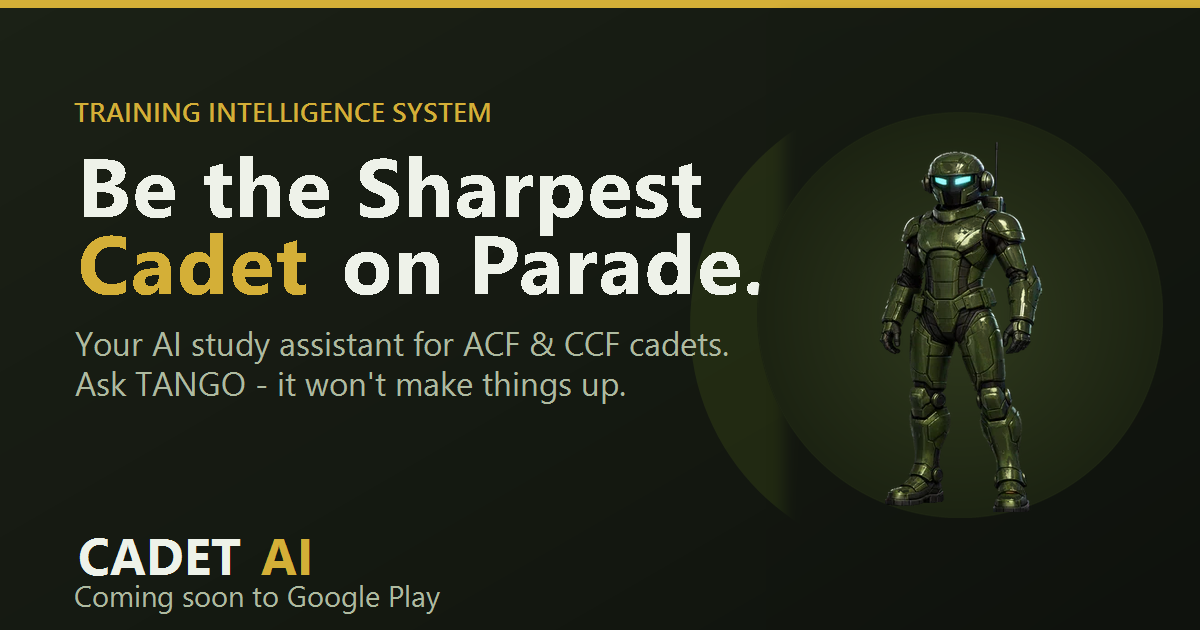
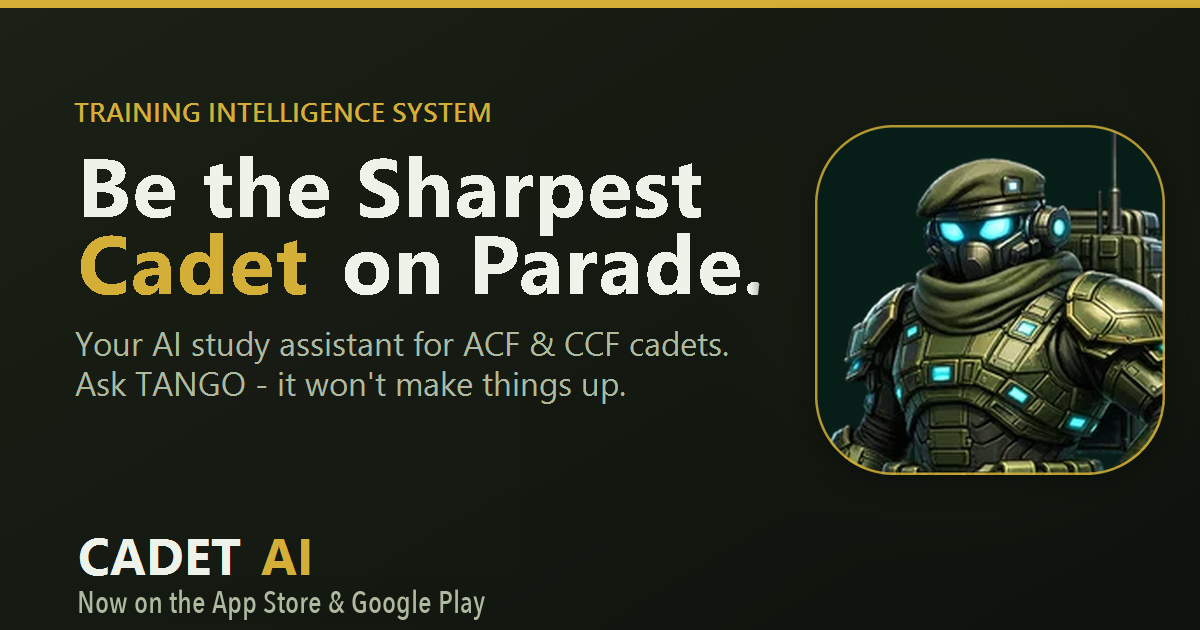
Square and 4:3 cards, because the wide one dies in a square crop
og-card-2.png is composed for 1.91:1 and reads perfectly there — Facebook,
LinkedIn, iMessage, X large card. Centre-cropped to 1:1, which is what Google
mobile search thumbnails and several chat surfaces do, it falls apart: the
headline loses its first word ("e Sharpest"), "Cadet" is reduced to "t", the
app icon is sliced down the middle, the wordmark reads "AI" and the strapline
reads "ore & Google Play". Verified by simulating the crops rather than
assuming.

Cropping cannot fix that, because the layout puts text on the left and the icon
on the right and a square crop keeps neither whole. So og-square.png (1:1) and
og-4x3.png (4:3) are composed for their own ratio and lead with the App Store
icon — the one element still legible when a thumbnail is 72px wide. Checked at
120px and 72px side by side against the cropped wide card.

Wiring:
  og:image / twitter:image   unchanged, still the wide card. Social surfaces
                             render it at ~1.91:1 where it is already correct,
                             and a second og:image risks a platform choosing
                             the square for a feed slot that wants wide.
  schema.org "image"         now an array of all three ratios across 29 fields
                             in 18 files. This is Google's documented way to
                             let it pick per surface, and it is the lever that
                             actually governs search thumbnails.
[…]

Changed region(s): [[0.6783, 0.181, 0.9867, 0.8143], [0.0617, 0.9349, 0.4008, 0.9952]]

diff --git a/features.html b/features.html
@@ -44,7 +44,11 @@
           "https://x.com/CadetAIUK"
         ],
         "logo": "https://cadetai.co.uk/assets/app-icon.png",
-        "image": "https://cadetai.co.uk/assets/og-card-2.png",
+        "image": [
+          "https://cadetai.co.uk/assets/og-card-2.png",
+          "https://cadetai.co.uk/assets/og-4x3.png",
+          "https://cadetai.co.uk/assets/og-square.png"
+        ],
         "email": "support@cadetai.co.uk",
         "description": "Independent study-aid app for UK Army Cadet Force (ACF) and Combined Cadet Force (CCF) cadets aged 13 and over. Not an official or endorsed Cadet Forces product.",
         "contactPoint": {
@@ -69,7 +73,11 @@
         "operatingSystem": "Android",
         "applicationCategory": "EducationalApplication",
         "url": "https://cadetai.co.uk/",
-        "image": "https://cadetai.co.uk/assets/og-card-2.png",
+        "image": [
+          "https://cadetai.co.uk/assets/og-card-2.png",
+          "https://cadetai.co.uk/assets/og-4x3.png",
+          "https://cadetai.co.uk/assets/og-square.png"
+        ],
         "inLanguage": "en-GB",
         "description": "AI study-aid app for UK ACF and CCF cadets. TANGO, an AI study assistant grounded in cadet training that won't make things up, plus quizzes across 13 subjects, military ranks, 229 badges and 35 awards.",
         "publisher": { "@id": "https://cadetai.co.uk/#org" },

diff --git a/index.html b/index.html
@@ -46,7 +46,11 @@
           "https://x.com/CadetAIUK"
         ],
         "logo": "https://cadetai.co.uk/assets/app-icon.png",
-        "image": "https://cadetai.co.uk/assets/og-card-2.png",
+        "image": [
+          "https://cadetai.co.uk/assets/og-card-2.png",
+          "https://cadetai.co.uk/assets/og-4x3.png",
+          "https://cadetai.co.uk/assets/og-square.png"
+        ],
         "email": "support@cadetai.co.uk",
         "description": "Independent study-aid app for UK Army Cadet Force (ACF) and Combined Cadet Force (CCF) cadets aged 13 and over. Not an official or endorsed Cadet Forces product.",
         "contactPoint": {
@@ -71,7 +75,11 @@
         "operatingSystem": "Android",
         "applicationCategory": "EducationalApplication",
         "url": "https://cadetai.co.uk/",
-        "image": "https://cadetai.co.uk/assets/og-card-2.png",
+        "image": [
+          "https://cadetai.co.uk/assets/og-card-2.png",
+          "https://cadetai.co.uk/assets/og-4x3.png",
+          "https://cadetai.co.uk/assets/og-square.png"
+        ],
         "inLanguage": "en-GB",
         "description": "AI study-aid app for UK ACF and CCF cadets. TANGO, an AI study assistant grounded in cadet training that won't make things up, plus quizzes across 13 subjects, military ranks, 229 badges and 35 awards.",
         "publisher": { "@id": "https://cadetai.co.uk/#org" },

diff --git a/guides/map-reading-grid-references.html b/guides/map-reading-grid-references.html
@@ -44,7 +44,11 @@
           "https://x.com/CadetAIUK"
         ],
         "logo": "https://cadetai.co.uk/assets/app-icon.png",
-        "image": "https://cadetai.co.uk/assets/og-card-2.png",
+        "image": [
+          "https://cadetai.co.uk/assets/og-card-2.png",
+          "https://cadetai.co.uk/assets/og-4x3.png",
+          "https://cadetai.co.uk/assets/og-square.png"
+        ],
         "email": "support@cadetai.co.uk"
       },
       {
@@ -60,7 +64,11 @@
         "@id": "https://cadetai.co.uk/guides/map-reading-grid-references.html#article",
         "headline": "Map Reading for Cadets: Grid References Explained",
         "description": "Eastings, northings, four-figure and six-figure grid references - explained simply, with the common mistakes.",
-        "image": "https://cadetai.co.uk/assets/og-card-2.png",
+        "image": [
+          "https://cadetai.co.uk/assets/og-card-2.png",
+          "https://cadetai.co.uk/assets/og-4x3.png",
+          "https://cadetai.co.uk/assets/og-square.png"
+        ],
         "inLanguage": "en-GB",
         "datePublished": "2026-09-08",
         "dateModified": "2026-09-08",

diff --git a/guides/how-to-revise-for-cadet-assessments.html b/guides/how-to-revise-for-cadet-assessments.html
@@ -44,7 +44,11 @@
           "https://x.com/CadetAIUK"
         ],
         "logo": "https://cadetai.co.uk/assets/app-icon.png",
-        "image": "https://cadetai.co.uk/assets/og-card-2.png",
+        "image": [
+          "https://cadetai.co.uk/assets/og-card-2.png",
+          "https://cadetai.co.uk/assets/og-4x3.png",
+          "https://cadetai.co.uk/assets/og-square.png"
+        ],
         "email": "support@cadetai.co.uk"
       },
       {
@@ -60,7 +64,11 @@
         "@id": "https://cadetai.co.uk/guides/how-to-revise-for-cadet-assessments.html#article",
         "headline": "How to Revise for Your Cadet Assessments",
         "description": "Practical study tips for ACF and CCF cadets using active recall, spaced practice and self-quizzing.",
-        "image": "https://cadetai.co.uk/assets/og-card-2.png",
+        "image": [
+          "https://cadetai.co.uk/assets/og-card-2.png",
+          "https://cadetai.co.uk/assets/og-4x3.png",
+          "https://cadetai.co.uk/assets/og-square.png"
+        ],
         "inLanguage": "en-GB",
         "datePublished": "2026-06-30",
         "dateModified": "2026-06-30",

diff --git a/guides/cadet-drill-commands-explained.html b/guides/cadet-drill-commands-explained.html
@@ -44,7 +44,11 @@
           "https://x.com/CadetAIUK"
         ],
         "logo": "https://cadetai.co.uk/assets/app-icon.png",
-        "image": "https://cadetai.co.uk/assets/og-card-2.png",
+        "image": [
+          "https://cadetai.co.uk/assets/og-card-2.png",
+          "https://cadetai.co.uk/assets/og-4x3.png",
+          "https://cadetai.co.uk/assets/og-square.png"
+        ],
         "email": "support@cadetai.co.uk"
       },
       {
@@ -60,7 +64,11 @@
         "@id": "https://cadetai.co.uk/guides/cadet-drill-commands-explained.html#article",
         "headline": "Cadet Drill Commands Explained",
         "description": "Cautionary and executive commands, the common static and marching orders, and how to actually remember them.",
-        "image": "https://cadetai.co.uk/assets/og-card-2.png",
+        "image": [
+          "https://cadetai.co.uk/assets/og-card-2.png",
+          "https://cadetai.co.uk/assets/og-4x3.png",
+          "https://cadetai.co.uk/assets/og-square.png"
+        ],
         "inLanguage": "en-GB",
         "datePublished": "2026-09-08",
         "dateModified": "2026-09-08",

diff --git a/guides/how-to-join-the-army-cadets.html b/guides/how-to-join-the-army-cadets.html
@@ -44,7 +44,11 @@
           "https://x.com/CadetAIUK"
         ],
         "logo": "https://cadetai.co.uk/assets/app-icon.png",
-        "image": "https://cadetai.co.uk/assets/og-card-2.png",
+        "image": [
+          "https://cadetai.co.uk/assets/og-card-2.png",
+          "https://cadetai.co.uk/assets/og-4x3.png",
+          "https://cadetai.co.uk/assets/og-square.png"
+        ],
         "email": "support@cadetai.co.uk"
       },
       {
@@ -60,7 +64,11 @@
         "@id": "https://cadetai.co.uk/guides/how-to-join-the-army-cadets.html#article",
         "headline": "How to Join the Army Cadets",
         "description": "Finding a detachment, your first parade night, costs and kit — a step-by-step guide for cadets and parents.",
-        "image": "https://cadetai.co.uk/assets/og-card-2.png",
+        "image": [
+          "https://cadetai.co.uk/assets/og-card-2.png",
+          "https://cadetai.co.uk/assets/og-4x3.png",
+          "https://cadetai.co.uk/assets/og-square.png"
+        ],
         "inLanguage": "en-GB",
         "datePublished": "2026-09-08",
         "dateModified": "2026-09-08",

diff --git a/guides/acf-vs-ccf.html b/guides/acf-vs-ccf.html
@@ -44,7 +44,11 @@
           "https://x.com/CadetAIUK"
         ],
         "logo": "https://cadetai.co.uk/assets/app-icon.png",
-        "image": "https://cadetai.co.uk/assets/og-card-2.png",
+        "image": [
+          "https://cadetai.co.uk/assets/og-card-2.png",
+          "https://cadetai.co.uk/assets/og-4x3.png",
+          "https://cadetai.co.uk/assets/og-square.png"
+        ],
         "email": "support@cadetai.co.uk"
       },
       {
@@ -60,7 +64,11 @@
         "@id": "https://cadetai.co.uk/guides/acf-vs-ccf.html#article",
         "headline": "ACF vs CCF: What's the Difference?",
         "description": "How the Army Cadet Force and Combined Cadet Force differ, what they share, who can join, and how training compares.",
-        "image": "https://cadetai.co.uk/assets/og-card-2.png",
+        "image": [
+          "https://cadetai.co.uk/assets/og-card-2.png",
+          "https://cadetai.co.uk/assets/og-4x3.png",
+          "https://cadetai.co.uk/assets/og-square.png"
+        ],
         "inLanguage": "en-GB",
         "datePublished": "2026-06-30",
         "dateModified": "2026-06-30",

diff --git a/guides/cadet-star-levels-and-ranks.html b/guides/cadet-star-levels-and-ranks.html
@@ -44,7 +44,11 @@
           "https://x.com/CadetAIUK"
         ],
         "logo": "https://cadetai.co.uk/assets/app-icon.png",
-        "image": "https://cadetai.co.uk/assets/og-card-2.png",
+        "image": [
+          "https://cadetai.co.uk/assets/og-card-2.png",
+          "https://cadetai.co.uk/assets/og-4x3.png",
+          "https://cadetai.co.uk/assets/og-square.png"
+        ],
         "email": "support@cadetai.co.uk"
       },
       {
@@ -60,7 +64,11 @@
         "@id": "https://cadetai.co.uk/guides/cadet-star-levels-and-ranks.html#article",
         "headline": "Cadet Star Levels & Ranks Explained",
         "description": "How cadet training progresses from Basic to 4-Star and how cadet ranks work.",
-        "image": "https://cadetai.co.uk/assets/og-card-2.png",
+        "image": [
+          "https://cadetai.co.uk/assets/og-card-2.png",
+          "https://cadetai.co.uk/assets/og-4x3.png",
+          "https://cadetai.co.uk/assets/og-square.png"
+        ],
         "inLanguage": "en-GB",
         "datePublished": "2026-06-30",
         "dateModified": "2026-06-30",

diff --git a/guides/cadet-training-subjects.html b/guides/cadet-training-subjects.html
@@ -44,7 +44,11 @@
           "https://x.com/CadetAIUK"
         ],
         "logo": "https://cadetai.co.uk/assets/app-icon.png",
-        "image": "https://cadetai.co.uk/assets/og-card-2.png",
+        "image": [
+          "https://cadetai.co.uk/assets/og-card-2.png",
+          "https://cadetai.co.uk/assets/og-4x3.png",
+          "https://cadetai.co.uk/assets/og-square.png"
+        ],
         "email": "support@cadetai.co.uk"
       },
       {
@@ -60,7 +64,11 @@
         "@id": "https://cadetai.co.uk/guides/cadet-training-subjects.html#article",
         "headline": "Cadet Training Subjects Explained",
         "description": "A plain-English tour of the cadet training subjects and how to revise them.",
-        "image": "https://cadetai.co.uk/assets/og-card-2.png",
+        "image": [
+          "https://cadetai.co.uk/assets/og-card-2.png",
+          "https://cadetai.co.uk/assets/og-4x3.png",
+          "https://cadetai.co.uk/assets/og-square.png"
+        ],
         "inLanguage": "en-GB",
         "datePublished": "2026-06-30",
         "dateModified": "2026-06-30",

diff --git a/guides/what-age-to-join-cadets.html b/guides/what-age-to-join-cadets.html
@@ -44,7 +44,11 @@
           "https://x.com/CadetAIUK"
         ],
         "logo": "https://cadetai.co.uk/assets/app-icon.png",
-        "image": "https://cadetai.co.uk/assets/og-card-2.png",
+        "image": [
+          "https://cadetai.co.uk/assets/og-card-2.png",
+          "https://cadetai.co.uk/assets/og-4x3.png",
+          "https://cadetai.co.uk/assets/og-square.png"
+        ],
         "email": "support@cadetai.co.uk"
       },
       {
@@ -60,7 +64,11 @@
         "@id": "https://cadetai.co.uk/guides/what-age-to-join-cadets.html#article",
         "headline": "What Age Can You Join the Cadets?",
         "description": "Typical joining ages for the ACF and CCF and how to find your nearest unit.",
-        "image": "https://cadetai.co.uk/assets/og-card-2.png",
+        "image": [
+          "https://cadetai.co.uk/assets/og-card-2.png",
+          "https://cadetai.co.uk/assets/og-4x3.png",
+          "https://cadetai.co.uk/assets/og-square.png"
+        ],
         "inLanguage": "en-GB",
         "datePublished": "2026-06-30",
         "dateModified": "2026-06-30",

diff --git a/guides/parents-guide-to-cadet-ai.html b/guides/parents-guide-to-cadet-ai.html
@@ -44,7 +44,11 @@
           "https://x.com/CadetAIUK"
         ],
         "logo": "https://cadetai.co.uk/assets/app-icon.png",
-        "image": "https://cadetai.co.uk/assets/og-card-2.png",
+        "image": [
+          "https://cadetai.co.uk/assets/og-card-2.png",
+          "https://cadetai.co.uk/assets/og-4x3.png",
+          "https://cadetai.co.uk/assets/og-square.png"
+        ],
         "email": "support@cadetai.co.uk"
       },
       {
@@ -60,7 +64,11 @@
         "@id": "https://cadetai.co.uk/guides/parents-guide-to-cadet-ai.html#article",
         "headline": "A Parent's Guide to Cadet AI: Safety & Privacy",
         "description": "How Cadet AI keeps young people safe and handles privacy.",
-        "image": "https://cadetai.co.uk/assets/og-card-2.png",
+        "image": [
+          "https://cadetai.co.uk/assets/og-card-2.png",
+          "https://cadetai.co.uk/assets/og-4x3.png",
+          "https://cadetai.co.uk/assets/og-square.png"
+        ],
         "inLanguage": "en-GB",
         "datePublished": "2026-06-30",
         "dateModified": "2026-06-30",

diff --git a/contact.html b/contact.html
@@ -44,7 +44,11 @@
           "https://x.com/CadetAIUK"
         ],
         "logo": "https://cadetai.co.uk/assets/app-icon.png",
-        "image": "https://cadetai.co.uk/assets/og-card-2.png",
+        "image": [
+          "https://cadetai.co.uk/assets/og-card-2.png",
+          "https://cadetai.co.uk/assets/og-4x3.png",
+          "https://cadetai.co.uk/assets/og-square.png"
+        ],
         "email": "support@cadetai.co.uk",
         "description": "Independent study-aid app for UK Army Cadet Force (ACF) and Combined Cadet Force (CCF) cadets aged 13 and over. Not an official or endorsed Cadet Forces product.",
         "contactPoint": {
